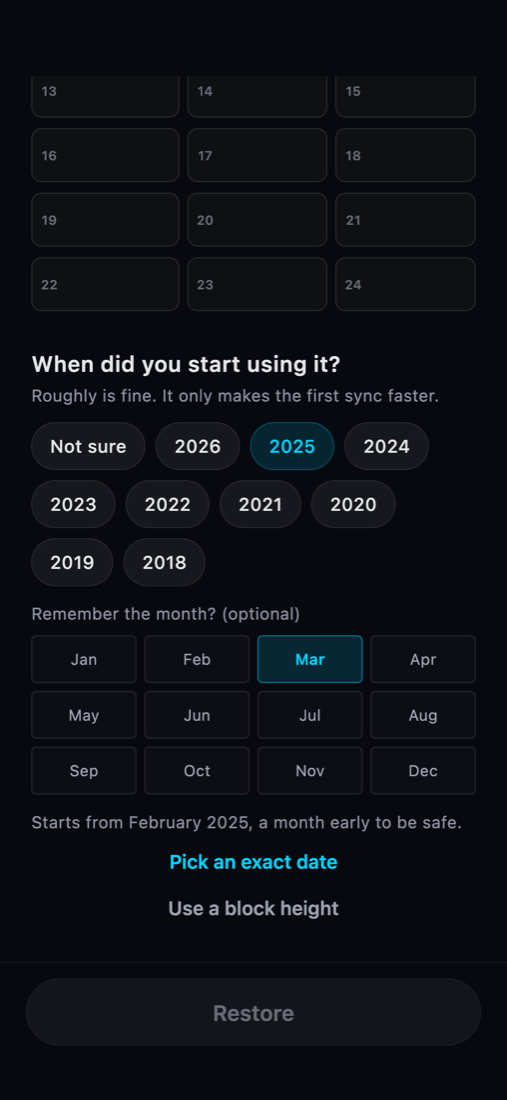
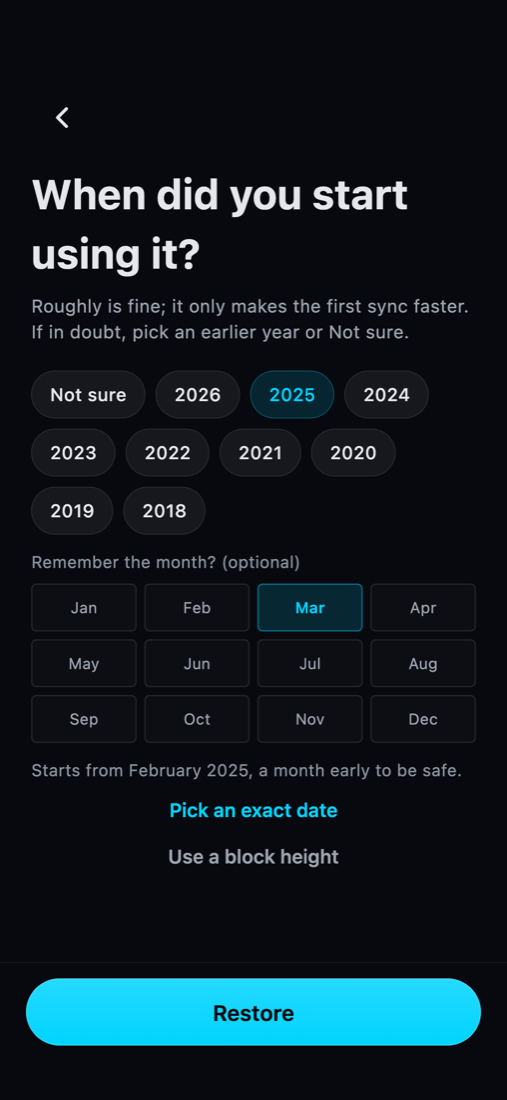
Restore in two steps so the start-date question can't be missed
The date question sat below 24 word boxes and was easy to scroll past.
Restore is now: recovery phrase, Continue (checks the words first), then
When did you start using it? with Restore. Back and the iOS back swipe
return to the phrase. Also adds the backup reminder screenshot.

diff --git a/lib/pages/accounts/restore.dart b/lib/pages/accounts/restore.dart
@@ -19,12 +19,21 @@ import 'bip39_wordlist.dart';
 /// Seed phrase restore — per-word grid with privacy masking, smart paste,
 /// BIP39 autocomplete, and optional wallet birthday.
 class RestoreAccountPage extends StatefulWidget {
+  RestoreAccountPage({super.key, @visibleForTesting this.initialStep = 0});
+
+  /// Tests and screenshots can open the date step directly; the app always
+  /// starts at the phrase, which must validate before the date step.
+  final int initialStep;
+
   @override
   State<RestoreAccountPage> createState() => _RestoreAccountPageState();
 }
 
 class _RestoreAccountPageState extends State<RestoreAccountPage> {
   bool _loading = false;
+
+  /// 0: recovery phrase, 1: when the wallet was first used.
+  late int _step = widget.initialStep;
   String? _error;
   bool _seedVisible = false;
   int _wordCount = 24;
@@ -208,90 +217,150 @@ class _RestoreAccountPageState extends State<RestoreAccountPage> {
   Widget build(BuildContext context) {
     final showWords = _seedVisible && !_loading;
 
-    return Scaffold(
-      backgroundColor: ZipherColors.bg,
-      body: SafeArea(
-        child: Column(
-          children: [
-            Expanded(
-              child: SingleChildScrollView(
-                padding: const EdgeInsets.symmetric(horizontal: 24),
-                child: Column(
-                  crossAxisAlignment: CrossAxisAlignment.start,
-                  children: [
-                    const Gap(8),
-                    IconButton(
-                      tooltip: 'Back',
-                      onPressed: () => GoRouter.of(context).pop(),
-                      icon: const Icon(Icons.arrow_back_ios_new_rounded,
-                          color: ZipherColors.text90, size: 20),
-                    ),
-                    const Gap(12),
-                    const Text('Enter your recovery phrase',
-                        style: ZipherType.largeTitle),
-                    const Gap(8),
-                    const Text(
-                        'The 12 or 24 words you wrote down for this wallet.',
-                        style: ZipherType.subhead),
-                    const Gap(20),
-
-                    // ── Phrase ──
-                    Row(
-                      children: [
-                        ZipherButton(
-                          label: 'Paste',
-                          icon: Icons.content_paste_rounded,
-                          kind: ZipherButtonKind.secondary,
-                          size: ZipherButtonSize.small,
-                          onPressed: _pasteFromClipboard,
-                        ),
-                        const Gap(8),
-                        ZipherButton(
-                          label: _seedVisible ? 'Hide' : 'Show',
-                          icon: _seedVisible
-                              ? Icons.visibility_off_rounded
-                              : Icons.visibility_rounded,
-                          kind: ZipherButtonKind.plain,
-                          size: ZipherButtonSize.small,
-                          color: ZipherColors.text60,
-                          onPressed: () =>
-                              setState(() => _seedVisible = !_seedVisible),
-                        ),
-                        const Spacer(),
-                        _buildWordCountToggle(),
-                      ],
-                    ),
-                    const Gap(12),
-                    _buildWordGrid(showWords),
-                    if (_error != null) ...[
-                      const Gap(10),
-                      Text(
-                        _error!,
-                        style: ZipherType.footnote
-                            .copyWith(color: ZipherColors.negative),
+    return PopScope(
+      canPop: _step == 0 && !_loading,
+      onPopInvokedWithResult: (didPop, _) {
+        if (!didPop && _step == 1 && !_loading) setState(() => _step = 0);
+      },
+      child: Scaffold(
+        backgroundColor: ZipherColors.bg,
+        body: SafeArea(
+          child: Column(
+            children: [
+              Expanded(
+                child: SingleChildScrollView(
+                  padding: const EdgeInsets.symmetric(horizontal: 24),
+                  child: Column(
+                    crossAxisAlignment: CrossAxisAlignment.start,
+                    children: [
+                      const Gap(8),
+                      IconButton(
+                        tooltip: 'Back',
+                        onPressed: _loading
+                            ? null
+                            : () => _step == 1
+                                ? setState(() => _step = 0)
+                                : GoRouter.of(context).pop(),
+                        icon: const Icon(Icons.arrow_back_ios_new_rounded,
+                            color: ZipherColors.text90, size: 20),
                       ),
+                      const Gap(12),
+                      if (_step == 0) ..._phraseStep(showWords),
+                      if (_step == 1) ..._dateStep(),
+                      if (_error != null) ...[
+                        const Gap(10),
+                        Text(
+                          _error!,
+                          style: ZipherType.footnote
+                              .copyWith(color: ZipherColors.negative),
+                        ),
+                      ],
+                      const Gap(24),
                     ],
-                    const Gap(28),
-
-                    // ── When it was first used ──
-                    _buildBirthdaySection(),
-                    const Gap(24),
-                  ],
+                  ),
                 ),
               ),
-            ),
-
-            ZipherWidgets.bottomActions([
-              ZipherButton(
-                label: 'Restore',
-                onPressed: _allFilled ? _restore : null,
-                loading: _loading,
-              ),
-            ]),
-          ],
+              ZipherWidgets.bottomActions([
+                _step == 0
+                    ? ZipherButton(
+                        label: 'Continue',
+                        onPressed: _allFilled ? _continue : null,
+                        loading: _loading,
+                      )
+                    : ZipherButton(
+                        label: 'Restore',
+                        onPressed: _restore,
+                        loading: _loading,
+                      ),
+              ]),
+            ],
+          ),
         ),
       ),
     );
+  }
+
+  List<Widget> _phraseStep(bool showWords) => [
+        const Text('Enter your recovery phrase', style: ZipherType.largeTitle),
+        const Gap(8),
+        const Text('The 12 or 24 words you wrote down for this wallet.',
+            style: ZipherType.subhead),
+        const Gap(20),
+        Row(
+          children: [
+            ZipherButton(
+              label: 'Paste',
+              icon: Icons.content_paste_rounded,
+              kind: ZipherButtonKind.secondary,
+              size: ZipherButtonSize.small,
+              onPressed: _pasteFromClipboard,
+            ),
+            const Gap(8),
+            ZipherButton(
+              label: _seedVisible ? 'Hide' : 'Show',
+              icon: _seedVisible
+                  ? Icons.visibility_off_rounded
+                  : Icons.visibility_rounded,
+              kind: ZipherButtonKind.plain,
+              size: ZipherButtonSize.small,
+              color: ZipherColors.text60,
+              onPressed: () => setState(() => _seedVisible = !_seedVisible),
+            ),
+            const Spacer(),
+            _buildWordCountToggle(),
+          ],
+        ),
+        const Gap(12),
+        _buildWordGrid(showWords),
+      ];
+
+  List<Widget> _dateStep() => [
+        const Text('When did you start using it?',
+            style: ZipherType.largeTitle),
+        const Gap(8),
+        const Text(
+            'Roughly is fine; it only makes the first sync faster. If in doubt, pick an earlier year or Not sure.',
+            style: ZipherType.subhead),
+        const Gap(20),
+        _buildBirthdaySection(),
+      ];
+
+  /// Check the phrase before asking about dates, so a typo is fixed here.
+  Future<void> _continue() async {
+    setState(() => _error = null);
+    _validateAllWords();
+    if (_invalidWords.isNotEmpty) {
+      final nums = _invalidWords.map((i) => '#${i + 1}').join(', ');
+      setState(() => _error = 'Check word $nums: it isn’t a recovery word.');
+      return;
+    }
+    final words = _controllers
+        .map((c) => c.text.trim().toLowerCase())
+        .where((w) => w.isNotEmpty)
+        .toList();
+    if (![12, 15, 18, 21, 24].contains(words.length)) {
+      setState(() => _error = 'A recovery phrase has 12 or 24 words.');
+      return;
+    }
+    setState(() => _loading = true);
+    try {
+      final valid = await WalletService.instance.validateSeed(words.join(' '));
+      if (!mounted) return;
+      setState(() {
+        if (valid) {
+          _step = 1;
+          FocusScope.of(context).unfocus();
+        } else {
+          _error =
+              'These words don’t form a valid recovery phrase. Check their order and spelling.';
+        }
+      });
+    } catch (e) {
+      AppLog.instance.event('restore', 'validate_failed', error: e);
+      if (mounted) setState(() => _error = restoreErrorMessage(e));
+    } finally {
+      if (mounted) setState(() => _loading = false);
+    }
   }
 
   /// Paste the whole phrase at once; the word count is detected.
@@ -307,8 +376,18 @@ class _RestoreAccountPageState extends State<RestoreAccountPage> {
   }
 
   static const _monthNames = [
-    'January', 'February', 'March', 'April', 'May', 'June', 'July',
-    'August', 'September', 'October', 'November', 'December',
+    'January',
+    'February',
+    'March',
+    'April',
+    'May',
+    'June',
+    'July',
+    'August',
+    'September',
+    'October',
+    'November',
+    'December',
   ];
 
   /// Where the scan will start, in words.
@@ -318,7 +397,8 @@ class _RestoreAccountPageState extends State<RestoreAccountPage> {
       return 'Starts after block $height. Payments before it won’t be found.';
     }
     final date = _selectedDate;
-    if (date == null || isTestnet ||
+    if (date == null ||
+        isTestnet ||
         restoreAnchorForDate(date, testnet: isTestnet) == null) {
       return isTestnet && date != null
           ? 'On testnet, dates can’t shorten the scan, so it covers everything. Enter a block height to go faster.'
@@ -331,7 +411,7 @@ class _RestoreAccountPageState extends State<RestoreAccountPage> {
       year -= 1;
     }
     return 'Starts from ${_monthNames[month - 1]} $year, a month early to be safe.';
-  }  // ── Word count toggle (12 | 24) ──────────────────────────────────────
+  } // ── Word count toggle (12 | 24) ──────────────────────────────────────
 
   Widget _buildWordCountToggle() {
     return Container(
@@ -547,11 +627,6 @@ class _RestoreAccountPageState extends State<RestoreAccountPage> {
     return Column(
       crossAxisAlignment: CrossAxisAlignment.start,
       children: [
-        const Text('When did you start using it?', style: ZipherType.headline),
-        const Gap(4),
-        const Text('Roughly is fine. It only makes the first sync faster.',
-            style: ZipherType.footnote),
-        const Gap(12),
         Wrap(
           spacing: 8,
           runSpacing: 8,

diff --git a/test/design_capture_test.dart b/test/design_capture_test.dart
@@ -254,15 +254,18 @@ void main() {
     expect(find.text('I understand'), findsOneWidget);
   });
 
-  testWidgets('onboarding: restore start date', (tester) async {
+  testWidgets('onboarding: restore phrase', (tester) async {
     await shoot(tester, 'onboarding-restore', RestoreAccountPage());
-    expect(find.text('Not sure'), findsOneWidget);
+    // The date question is its own step, not hidden below the words.
+    expect(find.text('Continue'), findsOneWidget);
+    expect(find.text('Not sure'), findsNothing);
   });
 
-  testWidgets('onboarding: restore with a month picked', (tester) async {
-    await shoot(tester, 'onboarding-restore-date', RestoreAccountPage(),
-        act: () async {
+  testWidgets('onboarding: restore start date', (tester) async {
+    await shoot(tester, 'onboarding-restore-date',
+        RestoreAccountPage(initialStep: 1), act: () async {
       Future<void> settle() => tester.pump(const Duration(milliseconds: 400));
+      await settle();
       await tester.ensureVisible(find.text('2025'));
       await settle();
       await tester.tap(find.text('2025'));
@@ -271,9 +274,9 @@ void main() {
       await settle();
       await tester.tap(find.text('Mar'));
       await settle();
-      await tester.ensureVisible(find.textContaining('Starts from'));
-      await settle();
     });
+    expect(find.text('When did you start using it?'), findsOneWidget);
     expect(find.textContaining('Starts from February 2025'), findsOneWidget);
+    expect(find.text('Restore'), findsOneWidget);
   });
 }
